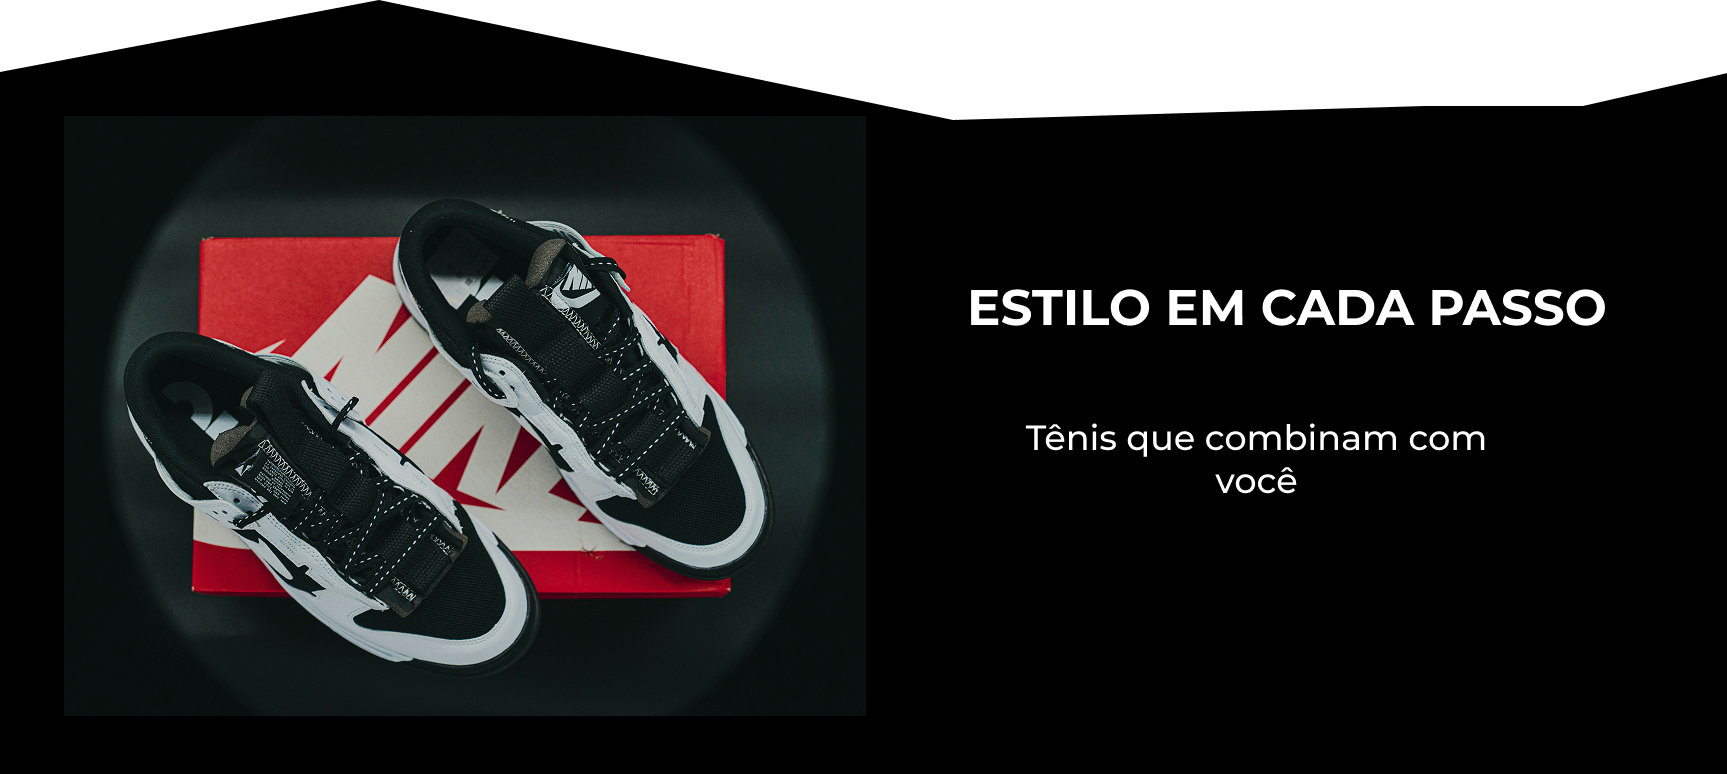
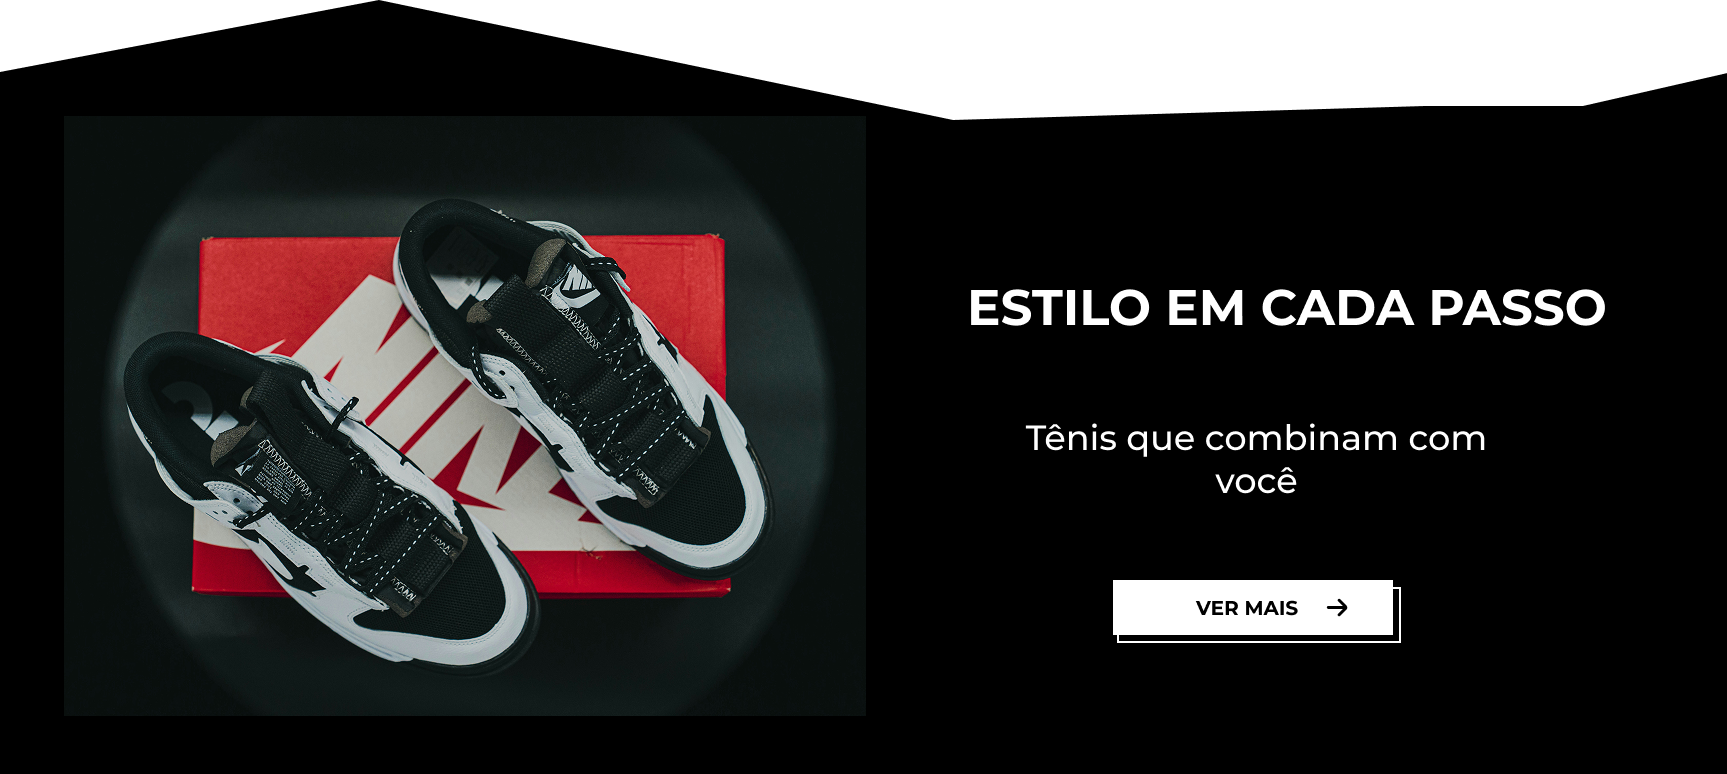
Adicionando pastas e modificando index.html

Changed region(s): [[0.6445, 0.7442, 0.8286, 0.8372]]

diff --git a/docs/index.html b/docs/index.html
@@ -3,9 +3,8 @@
 <head>
     <meta charset="UTF-8">
     <meta name="viewport" content="width=device-width, initial-scale=1.0">
-    <link rel="stylesheet" href="https://unpkg.com/boxicons@latest/css/boxicons.min.css">
+    <link href="https://cdn.jsdelivr.net/npm/boxicons@latest/css/boxicons.min.css" rel="stylesheet">
     <link rel="stylesheet" href="./css/index.css">
-    <link rel="stylesheet" href="./components/cards.css">
     <title>Kichutes</title>
 </head>
 <body>
@@ -13,8 +12,8 @@
         <img class="img-header" src="./assets/images/header/foto-banner-topo.png" alt="">
         <div class="header-top">
             <div class="logo">
-                <a href="#">
-                    <img src="./assets/images/nav/Kichutas.png" alt="Logo">
+                <a href="index.html">
+                    <img src="./assets/images/logo/Kichutes.png" alt="Logo">
                 </a>
             </div>
             <div class="input-box">
@@ -100,44 +99,52 @@
                     <img src="./assets/images/main/MaisVendidos/foto tenis adidas galaxy 7 masculino.png" alt="Foto adidas galaxy 7">
                     <p>TÊNIS ADIDAS GALAXY 7 - MASCULINO</p>
                     <p>R$ 399,99</p>
-                    <div class="btn-wrap">
-                        <button class="btn-comprar">COMPRAR <i class='bx bx-right-arrow-alt'></i></button>
-                    </div>
+                    <a href="comprar1.html">
+                        <div class="btn-fundo">
+                            <button class="btn-comprar">COMPRAR <i class='bx bx-right-arrow-alt'></i></button>
+                        </div>
+                    </a>
                 </div>
                 <div class="card2">
                     <i class='bx bx-heart coracao-icone'></i>
                     <img src="./assets/images/main/MaisVendidos/foto tenis nikecourt vision low masculino.png" alt="Foto nikecourt vision low">
                     <p>TÊNIS NIKECOURT VISION LOW - MASCULINO</p>
                     <p>R$ 430,00</p>
-                    <div class="btn-wrap">
-                        <button class="btn-comprar">COMPRAR <i class='bx bx-right-arrow-alt'></i></button>
-                    </div>
+                    <a href="#">
+                        <div class="btn-fundo">
+                            <button class="btn-comprar">COMPRAR <i class='bx bx-right-arrow-alt'></i></button>
+                        </div>
+                    </a>
                 </div>
                 <div class="card3">
                     <i class='bx bx-heart coracao-icone'></i>
                     <img src="./assets/images/main/MaisVendidos/foto tenis fila street fit 2 feminino.png" alt="Foto fila street fit 2">
                     <p>TÊNIS FILA STREET FIT 2 - FEMININO</p>
                     <p>R$ 379,99</p>
-                    <div class="btn-wrap">
-                        <button class="btn-comprar">COMPRAR <i class='bx bx-right-arrow-alt'></i></button>
-                    </div>
+                    <a href="#">
+                        <div class="btn-fundo">
+                            <button class="btn-comprar">COMPRAR <i class='bx bx-right-arrow-alt'></i></button>
+                        </div>
+                    </a>
                 </div>
                 <div class="card4">
                     <i class='bx bx-heart coracao-icone'></i>
                     <img src="./assets/images/main/MaisVendidos/foto tenis air force 1.png" alt="Foto air force 1">
                     <p>TÊNIS AIR FORCE 1</p>
                     <p>R$ 759,99</p>
-                    <div class="btn-wrap">
-                        <button class="btn-comprar">COMPRAR <i class='bx bx-right-arrow-alt'></i></button>
-                    </div>
+                    <a href="#">
+                        <div class="btn-fundo">
+                            <button class="btn-comprar">COMPRAR <i class='bx bx-right-arrow-alt'></i></button>
+                        </div>
+                    </a>
                 </div>
             </div>
         </section>
 
-        <!-- <section class="banner-main">
+        <!-- Banner  -->
+        <section class="banner-main">
             <img src="./assets/images/main/Banner/Banner.png" alt="Banner tênis">
-            <button>VER MAIS</button>
-        </section> -->
+        </section>
 
         <!-- CATEGORIAS EM DESTAQUE -->
         <section class="container-categorias">
@@ -178,3 +185,18 @@
     </footer>
 </body>
 </html>
+
+<!-- ICONES USADOS:
+<i class='bx bxs-user'></i>  => perfil
+<i class='bx bxs-heart'></i> => favorito
+<i class='bx bxs-shopping-bag'></i> => sacola     
+<i class='bx bxs-cart'></i> => carrinho 
+<i class='bx bxs-credit-card'></i> => cartao   
+
+//dropdown
+<i class='bx bx-user></i> => perfil
+<i class='bx bxs-cart'></i> => carrinho 
+<i class='bx bx-log-out'></i> => sair
+<i class='bx bx-help-circle'></i> => ajuda
+
+-->

diff --git a/docs/css/index.css b/docs/css/index.css
@@ -195,33 +195,33 @@ body {
 }
 
 .container-banner-topo .left .p1-left {
-    color: #003789;
+    color: #000000;
     font-family: Poppins;
     font-size: 18px;
     font-weight: 700;
 }
 
 .container-banner-topo .left .p2-left {
-    color: #003789;
+    color: #000000;
     font-family: Poppins;
     font-size: 15px;
     font-weight: 400;
 }
 
 .container-banner-topo .left, .right i {
-    color: #003789;
+    color: #000000;
     font-size: 40px;
 }
 
 .container-banner-topo .right .p1-right {
-    color: #003789;
+    color: #000000;
     font-family: Poppins;
     font-size: 18px;
     font-weight: 700;
 }
 
 .container-banner-topo .right .p2-right {
-    color: #003789;
+    color: #000000;
     font-family: Poppins;
     font-size: 15px;
     font-weight: 400;
@@ -347,12 +347,12 @@ body {
     position: static;
 }
 
-.btn-wrap {
+.btn-fundo {
   position: relative;
   display: inline-block;
 }
 
-.btn-wrap::after {
+.btn-fundo::after {
   content: "";
   position: absolute;
   inset: 0;

diff --git a/docs/pages/comprar1.html b/docs/pages/comprar1.html
@@ -1,0 +1,11 @@
+<!DOCTYPE html>
+<html lang="pt-br">
+<head>
+    <meta charset="UTF-8">
+    <meta name="viewport" content="width=device-width, initial-scale=1.0">
+    <title>Document</title>
+</head>
+<body>
+    
+</body>
+</html>
